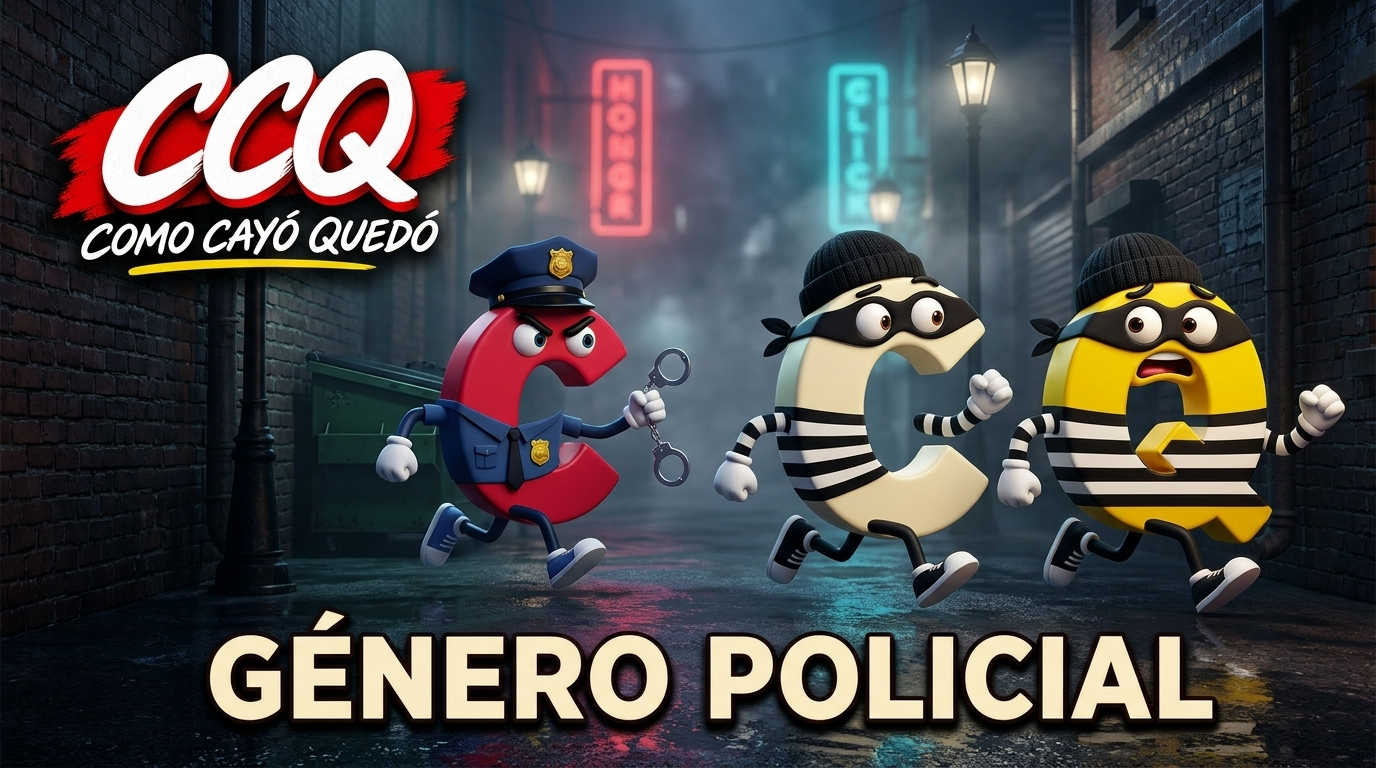
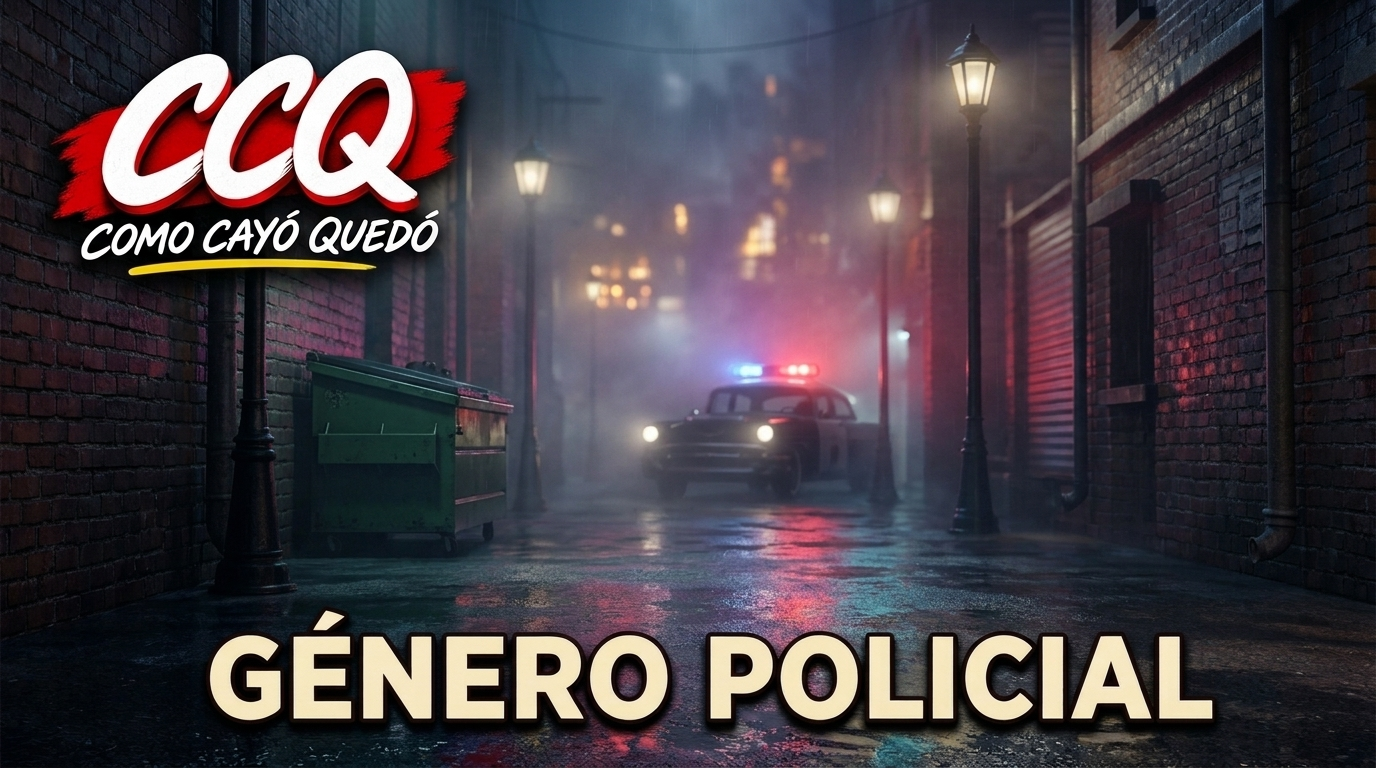
Actualiza placas sin personajes de letras y agrega botón Mosquito en control

diff --git a/script.js b/script.js
@@ -680,6 +680,8 @@ function ocultarTodosLosOverlays(pausarVideo = true) {
     document.getElementById('overlay-genero').style.display = 'none';
     document.getElementById('overlay-video').style.display = 'none';
     document.getElementById('overlay-logo-fijo').style.display = 'none';
+    const overlayPubliMosquito = document.getElementById('overlay-publi-mosquito');
+    if (overlayPubliMosquito) overlayPubliMosquito.style.display = 'none';
     if (overlayTanteador) overlayTanteador.style.display = 'none';
     document.getElementById('marquesina').classList.remove('show');
     if (bannerGanador) bannerGanador.classList.remove('show');
@@ -1217,6 +1219,18 @@ function lanzarLogoFijo() {
 }
 window.lanzarLogoFijo = lanzarLogoFijo;
 
+function lanzarPubliMosquito() {
+    cancelarGiroYTimers();
+    setBlackout(false);
+    ocultarTodosLosOverlays(true);
+
+    const overlay = document.getElementById('overlay-publi-mosquito');
+    if (overlay) overlay.style.display = 'flex';
+    estado = "MULTIMEDIA";
+    actualizarControlUI("Publicidad: Mosquito en Pantalla");
+}
+window.lanzarPubliMosquito = lanzarPubliMosquito;
+
 // ========================================================
 // 7. REINICIO DEL SHOW
 // ========================================================
@@ -1302,6 +1316,9 @@ if (canalProyector) {
                 break;
             case 'LANZAR_LOGO_FIJO':
                 lanzarLogoFijo();
+                break;
+            case 'LANZAR_PUBLI_MOSQUITO':
+                lanzarPubliMosquito();
                 break;
             case 'LANZAR_VIDEO':
                 lanzarVideo(payload.nombre, payload.ig || false);

diff --git a/style.css b/style.css
@@ -243,7 +243,7 @@ body {
     position: absolute; width: 100%; height: 100%; object-fit: cover;
 }
 
-#overlay-logo-fijo {
+#overlay-logo-fijo, #overlay-publi-mosquito {
     position: fixed; top: 0; left: 0; width: 100vw; height: 100vh;
     background: black; display: none; flex-direction: column;
     align-items: center; justify-content: center; z-index: 100;
@@ -251,6 +251,11 @@ body {
 
 .logo-full-centrado {
     width: 85vw; height: 85vh; object-fit: contain;
+    z-index: 101;
+}
+
+.publi-full-imagen {
+    width: 100vw; height: 100vh; object-fit: contain;
     z-index: 101;
 }
 

diff --git a/control.html b/control.html
@@ -36,6 +36,7 @@
                 <h2 style="color: var(--color-azul);">MULTIMEDIA</h2>
                 <div style="display: flex; flex-direction: column; gap: 10px; margin-top: 2px;">
                     <button class="btn-secundario" id="btn-logo-fijo" style="background:#4CAF50; height: 52px;">🖼 LOGO IMAGEN</button>
+                    <button class="btn-secundario" id="btn-publi-mosquito" style="background:#ff9f1c; color:#111; height: 52px;">🦟 MOSQUITO</button>
                 </div>
             </div>
 

diff --git a/index.html b/index.html
@@ -68,6 +68,11 @@
         <img src="Logo/Logo.png" class="logo-full-centrado" alt="CCQ Logo">
     </div>
 
+    <!-- Pantalla Publicidad Mosquito -->
+    <div id="overlay-publi-mosquito">
+        <img src="Publi/Mosquito.jpeg" class="publi-full-imagen" alt="Publicidad Mosquito">
+    </div>
+
     <!-- Pantalla Tanteador (Equipo Rojo vs Equipo Verde) -->
     <div id="overlay-tanteador">
         <div class="tanteador-header">

diff --git a/control.js b/control.js
@@ -118,6 +118,7 @@ function inicializarUI() {
 
     // 3. Multimedia
     document.getElementById('btn-logo-fijo').onclick = () => enviarAccion('LANZAR_LOGO_FIJO');
+    document.getElementById('btn-publi-mosquito').onclick = () => enviarAccion('LANZAR_PUBLI_MOSQUITO');
 
     // 3B. Tanteador (Rojo vs Verde)
     const leerPuntaje = (inputEl) => {
